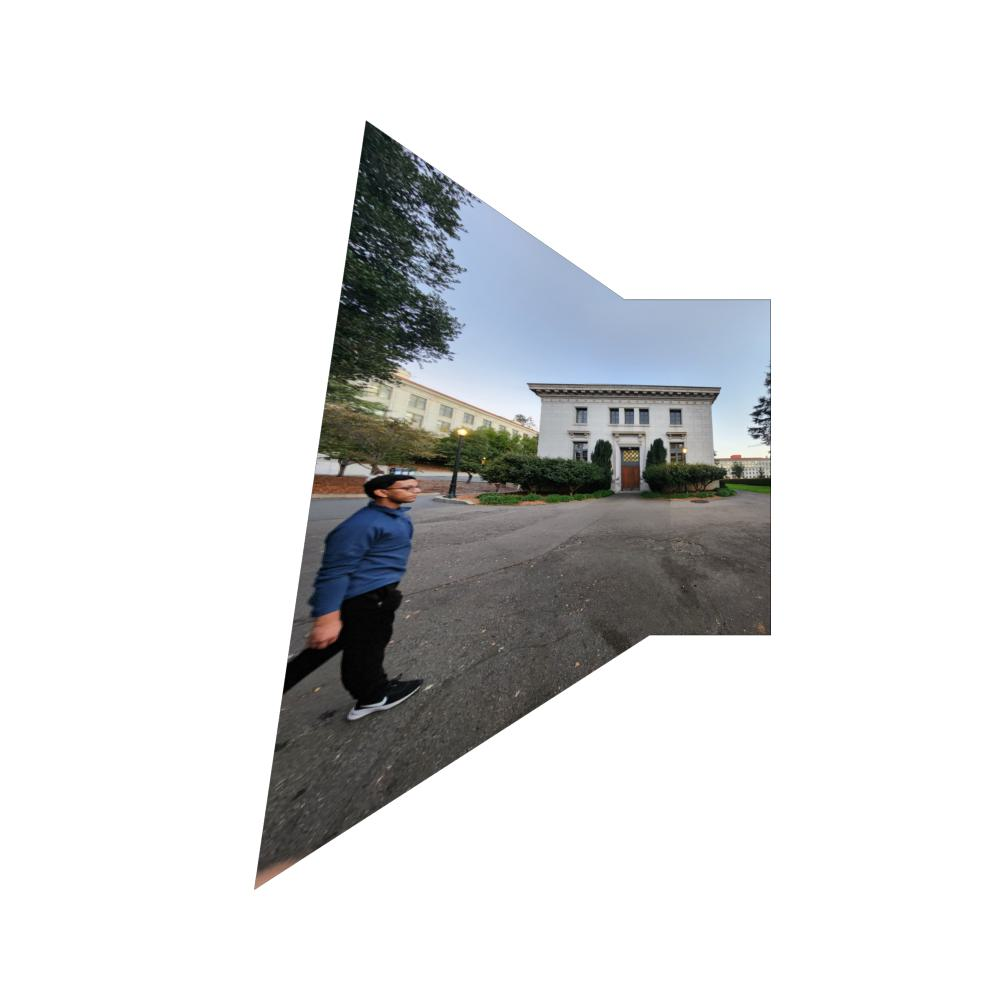
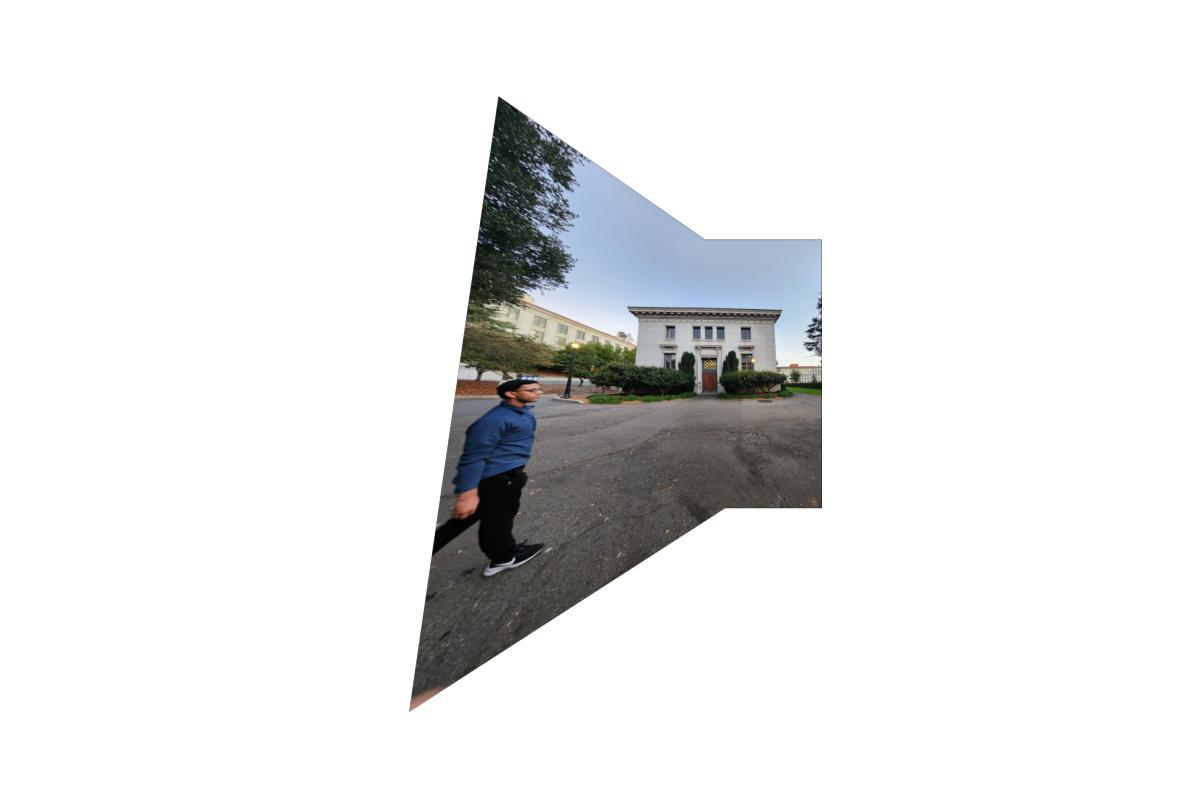
Add auto stitching image mosaics

diff --git a/projects/imagemosaics/index.html b/projects/imagemosaics/index.html
@@ -60,10 +60,13 @@
                 <tr>
                     <td>California Hall Images and Correspondences</td>
                     <td>San Francisco Images and Correspondences</td>
+                    <td>Valley Life Sciences Building Images and Correspondences</td>
+
                 </tr>
                 <tr>
                     <td><img src="media/chall_correspondences.jpg" alt="California Hall"></td>
                     <td><img src="media/sf_correspondences.jpg" alt="San Francisco"></td>
+                    <td><img src="media/vlsb_correspondences.jpg" alt="Valley Life Sciences Building"></td>
                 </tr>
             </table>
         </section>
@@ -173,12 +176,20 @@
             </p>
             <table>
                 <tr>
-                    <td>Original Image</td>
-                    <td>Rectified Image</td>
+                    <td>Original TCP/IP Book</td>
+                    <td>Rectified TCP/IP Book</td>
                 </tr>
                 <tr>
                     <td><img src="media/tcpipbook_original.jpg" alt="Original Image"></td>
                     <td><img src="media/rectified_tcpipbook.jpg" alt="Rectified image"></td>
+                </tr>
+                <tr>
+                    <td>Original Chess Board</td>
+                    <td>Rectified Chess Board</td>
+                </tr>
+                <tr>
+                    <td><img src="media/chess_original.jpg" alt="Original Image"></td>
+                    <td><img src="media/rectified_chess.jpg" alt="Rectified image"></td>
                 </tr>
             </table>
         </section>
@@ -197,26 +208,202 @@
             </p>
             <table>
                 <tr>
-                    <td>California Hall Images and Correspondences</td>
-                    <td>San Francisco Images and Correspondences</td>
+                    <td>California Hall Mosaics</td>
+                    <td>San Francisco Mosaics</td>
+                    <td>Valley Life Science Building Mosaics</td>
                 </tr>
                 <tr>
                     <td><img src="media/blended_chall1.jpg" alt="California Hall"></td>
-                    <td><img src="media/blended_chall2.jpg" alt="San Francisco"></td>
-                </tr>
-            </table>
-            <table>
-                <tr>
-                    <td>California Hall Images and Correspondences</td>
-                    <td>San Francisco Images and Correspondences</td>
+                    <td><img src="media/blended_sf1.jpg" alt="San Francisco"></td>
+                    <td><img src="media/blended_vlsb1.jpg" alt="Valley Life Science Building"></td>
                 </tr>
                 <tr>
-                    <td><img src="media/blended_sf1.jpg" alt="California Hall"></td>
+                    <td><img src="media/blended_chall2.jpg" alt="California Hall"></td>
                     <td><img src="media/blended_sf2.jpg" alt="San Francisco"></td>
+                    <td><img src="media/blended_vlsb2.jpg" alt="Valley Life Science Building"></td>
                 </tr>
             </table>
         </section>
     </div>
+
+    <!-- Header -->
+    <header class="text-center mb-12">
+        <h1 class="text-4xl font-bold mb-2">Feature Matching for Autostitching</h1>
+    </header>    
+
+    <section class="mb-12 text-center">
+        <h2 class="text-2xl font-bold mb-4"> Overview </h2>
+        <p>
+            The goal of this section is to automatically select the points to warp each image.   
+            We reimplement the research paper “Multi-Image Matching using Multi-Scale Oriented Patches” by Brown et al.
+        </p>
+    </section>
+
+    <section class="mb-12 text-center">
+        <h2 class="text-2xl font-bold mb-4">Detecting corner features in an image</h2>
+        <p class="mb-6">
+            We used the Harris Interest Point Detector to find the corners of an image. 
+            A corner is the junction of two edges in an image.  
+            They are important features used for restoring image information.  
+        </p>
+        <table>
+            <tr>
+                <td>Harris corners are shown in blue</td>
+                <td>Harris matrix</td>
+            </tr>
+            <tr>
+                <td><img src="media/chall1_harris_points.jpg" alt="Harris Corners"></td>
+                <td><img src="media/chall1_harris_matrix.jpg" alt="Harris Matrix"></td>
+            </tr>
+        </table>
+    </section>
+
+    <section class="mb-12 text-center">
+        <h2 class="text-2xl font-bold mb-4">Implementing Adaptive Non-Maximal Suppression (ANMS)</h2>
+        <p class="mb-6">
+            Looking at the Harris corners, we notice that many of them are packed close together, creating lots of redundancy.
+            To remove some of these redundant points, we will use ANMS.
+            The ANMS algorithm is simple:  
+        </p>
+        <p>
+            For every point, we find the distance to a neighboring point with a stronger corner response.
+        </p>
+        <p>
+            We will call this their 'radii'.  We order all the points by their radii. 
+        </p> 
+        <p>
+            Then, we select the first 500 points from our ordered list. 
+        </p>
+        <p>
+            The points towards the back of the list have weak corner responses
+            compared to their neighbors, and are therefore suppressed.  The points at the front of the list have strong corner responses 
+            and no close stronger neighbors.
+        </p>
+        <p>
+
+        </p>
+        <table>
+            <tr>
+                <td>Harris and ANMS points.  Harris points are shown in blue, and ANMS points are shown in purple.</td>
+            </tr>
+            <tr>
+                <td><img src="media/chall1_anms_points.jpg" alt="Harris and ANMS points"></td>
+            </tr>
+        </table>
+    </section>
+
+    <section class="mb-12 text-center"></section>
+        <h2 class="text-2xl font-bold mb-4">Extracting a Feature Descriptor for each feature point</h2>
+        <p class="mb-6">
+            For each point, we extract a feature descriptor to be used for feature matching.    
+        </p>
+        <p>
+            We select a 40x40 pixel square around the point.  
+            Then, we blur the image using a Gaussian filter, and downsize it to be a 8x8 pixels.  
+            The feature descriptor is then normalized by setting the mean to zero and the standard deviation to one.  
+        </p>
+        <table>
+            <tr>
+                <td>Sample Feature Descriptors</td>
+            </tr>
+            <tr>
+                <td><img src="media/chall1_feature_descriptors.jpg" alt="Feature Descriptors"></td>
+            </tr>
+        </table>
+    </section>
+
+    <section class="mb-12 text-center"></section>
+        <h2 class="text-2xl font-bold mb-4">Feature Matching</h2>
+        <p class="mb-6">
+            We compute the ANMS points for each image we want to stitch together, and their associated feature descriptors.
+        </p>
+        <p>
+            For each feature descriptor in image one, we find its two nearest neighbors in image two.  
+            We will validate matches based on Lowe's ratio.  
+            If the distance to the first nearest neighbor divided by the distance to the second nearest neighbor is below
+            a certain threshold, we are reasonably confident that this is the correct match.  If the ratio is above the 
+            threshold, we assume that both the first nearest neighbor and the second nearest neighbor are incorrect matches,
+            and the feature descriptor has no match.
+        </p>
+        <table>
+            <tr>
+                <td>Matches using Lowe's ratio</td>
+            </tr>
+            <tr>
+                <td><img src="media/chall_auto_correspondences.jpg" alt="Matches using Lowe's ratio"></td>
+            </tr>
+        </table>
+    </section>
+
+    <section class="mb-12 text-center"></section>
+        <h2 class="text-2xl font-bold mb-4">Removing outliers using Random sample consensus (RANSAC)</h2>
+        <p class="mb-6">
+            Our feature matching system contains some incorrect matches.  Unfortunately, the L2 norm is not robust against these outliers,
+            and the resulting homography can be skewed significantly from these incorrect matches.  To combat this, we will use RANSAC.
+        </p>
+        <p>
+            RANSAC randomly samples four points from the first image, computes the homography on just these four points, 
+            and determines how many warped points correctly line up with their corresponding point in the other image.  
+            We will call these points the inliers.  We repeat this process for a set number of iterations, and keep track
+            of the largest group of inliers.  
+        </p>
+        <p>
+            We will compute the final homography matrix on these inliers, and then blend the images together automatically.
+        </p>
+        <table>
+            <tr>
+                <td>All point correspondences in red/yellow and RANSAC point correspondences in blue/green</td>
+            </tr>
+            <tr>
+                <td><img src="media/chall_ransac.jpg" alt="All point correspondences in red/yellow and RANSAC point correspondences in blue/green"></td>
+            </tr>
+        </table>
+    </section>
+
+    <section class="mb-12 text-center"></section>
+        <h2 class="text-2xl font-bold mb-4">Results (Manual vs Automatic)</h2>
+        <p class="mb-6">
+            Below are the results of manually selecting correspondences, versus automatically selecting them using the algorithm described above.
+        </p>
+        <table>
+            <tr>
+                <td>Manual Mosaic of California Hall</td>
+                <td>Automatic Mosaic of California Hall</td>
+            </tr>
+            <tr>
+                <td><img src="media/blended_chall1.jpg" alt="Manual Mosaic Of California Hall"></td>
+                <td><img src="media/auto_blended_chall1.jpg" alt="Automatic Mosaic Of California Hall"></td>
+            </tr>
+            <tr>
+                <td><img src="media/blended_chall2.jpg" alt="Manual Mosaic Of California Hall"></td>
+                <td><img src="media/auto_blended_chall2.jpg" alt="Automatic Mosaic Of California Hall"></td>
+            </tr>
+            <tr>
+                <td>Manual Mosaic of San Francisco</td>
+                <td>Automatic Mosaic of San Francisco</td>
+            </tr>
+            <tr>
+                <td><img src="media/blended_sf1.jpg" alt="Manual Mosaic Of San Francisco"></td>
+                <td><img src="media/auto_blended_sf1.jpg" alt="Automatic Mosaic Of San Francisco"></td>
+            </tr>
+            <tr>
+                <td><img src="media/blended_sf2.jpg" alt="Manual Mosaic Of San Francisco"></td>
+                <td><img src="media/auto_blended_sf2.jpg" alt="Automatic Mosaic Of San Francisco"></td>
+            </tr>
+            <tr>
+                <td>Manual Mosaic of Valley Life Sciences Building</td>
+                <td>Automatic Mosaic of Valley Life Sciences Building</td>
+            </tr>
+            <tr>
+                <td><img src="media/blended_vlsb1.jpg" alt="Manual Mosaic Of Valley Life Sciences Building"></td>
+                <td><img src="media/auto_blended_vlsb1.jpg" alt="Automatic Mosaic Of Valley Life Sciences Building"></td>
+            </tr>
+            <tr>
+                <td><img src="media/blended_vlsb2.jpg" alt="Manual Mosaic Of Valley Life Sciences Building"></td>
+                <td><img src="media/auto_blended_vlsb2.jpg" alt="Automatic Mosaic Of Valley Life Sciences Building"></td>
+            </tr>
+        </table>
+    </section>
 
     <script>
         document.addEventListener("DOMContentLoaded", function() {
